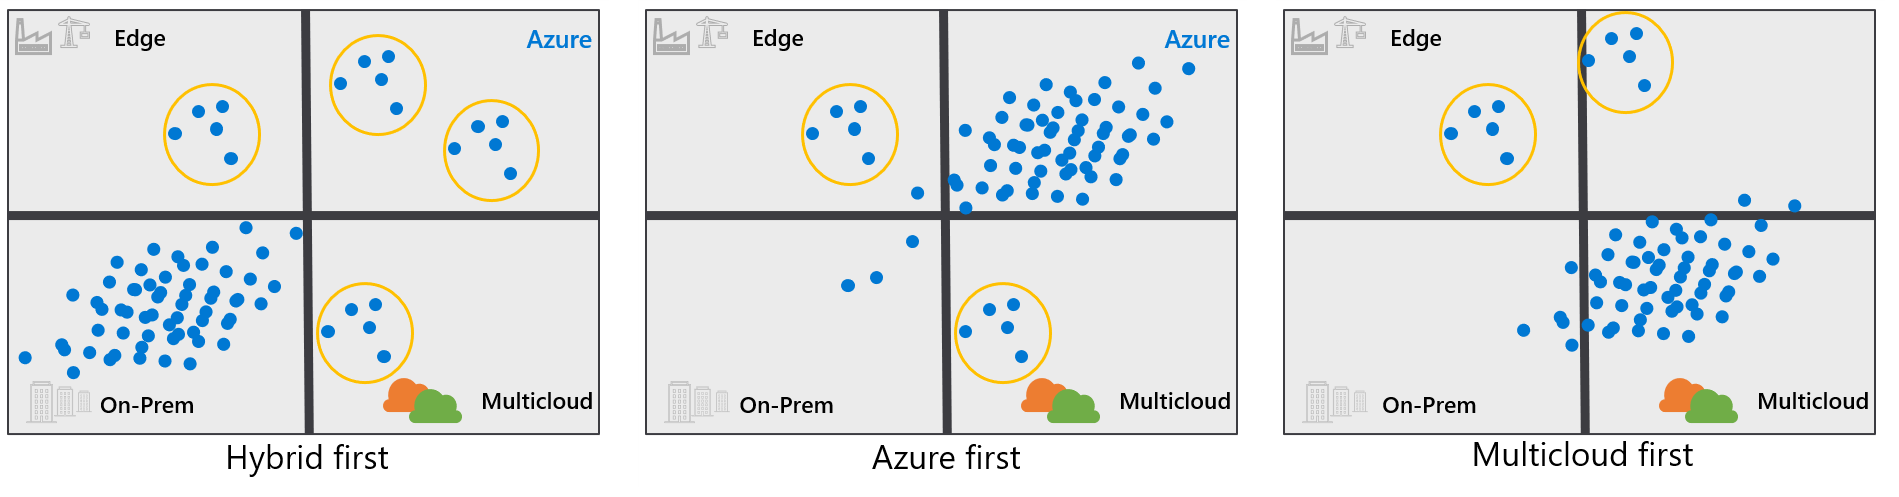
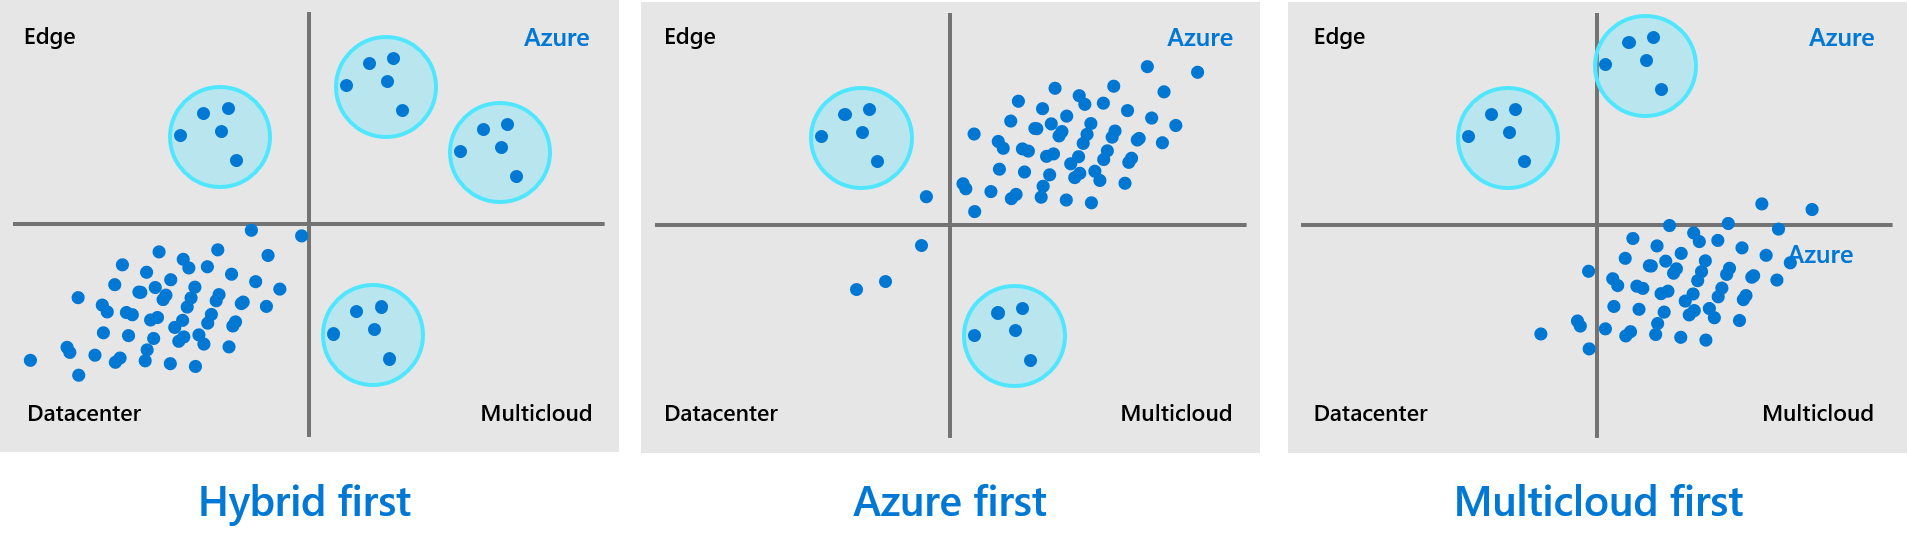
Update re: hybrid scenario bug fixes
Updated fresh cloud-mix.png; fixed 404 errors in arc-update-management.md; text updates to manage.md; added skills readiness path guidance to plan.md.

Changed region(s): [[0.0, 0.0, 1.0, 0.9658], [0.435, 0.5131, 0.466, 0.5734]]

diff --git a/docs/manage/hybrid/server/best-practices/arc-update-management.md b/docs/manage/hybrid/server/best-practices/arc-update-management.md
@@ -12,7 +12,7 @@ ms.custom: think-tank, e2e-hybrid
 
 # Use Update Management in Azure Automation to manage operating system updates for Azure Arc enabled servers
 
-This article provides guidance on how to onboard Azure Arc enabled servers to [Update Management in Azure Automation](/azure/automation/update-management/overview), so that you can manage operating system updates for your Azure Arc enabled servers running Windows or Linux.
+This article provides guidance on how to onboard Azure Arc enabled servers to [Update Management in Azure Automation](https://docs.microsoft.com/azure/automation/update-management/overview), so that you can manage operating system updates for your Azure Arc enabled servers running Windows or Linux.
 
 In the following procedures you create and configure an Azure Automation account and Log Analytics workspace to support Update Management for Azure Arc enabled servers by doing the following:
 
@@ -129,7 +129,7 @@ Now that we have configured the Update Management solution, you can deploy updat
 
     ![A screenshot of a scheduled update within Update management.](./media/arc-update-management/scheduled-update.png)
 
-This Update Management solution will update your Azure Arc enabled servers in the deployment window based on the schedule you defined. There's a lot more you can do with [Update Management](/azure/automation/update-management/overview) that is outside the scope of this scenario. Review the [documentation](/azure/automation/update-management/overview) for more information.
+This Update Management solution will update your Azure Arc enabled servers in the deployment window based on the schedule you defined. There's a lot more you can do with [Update Management](https://docs.microsoft.com/azure/automation/update-management/overview) that is outside the scope of this scenario. Review the [documentation](https://docs.microsoft.com/azure/automation/update-management/overview) for more information.
 
 ## Clean up your environment
 

diff --git a/docs/scenarios/hybrid/manage.md b/docs/scenarios/hybrid/manage.md
@@ -20,7 +20,7 @@ The following section outlines how you can apply the concept of unified operatio
 
 [Azure Arc](/azure/azure-arc/overview) reduces the complexity and cost of extending your operations baseline. Deploying Azure Arc across your datacenter, hybrid cloud, and multicloud environments will extend the native features of Azure that are included in Azure Resource Manager.
 
-To get started with an operations baseline that spans multiple cloud providers, complete a simple inventory and tagging exercise. This simple exercise will begin to extend your operations baselines in a few simple steps:
+To get started with an operations baseline that spans on-premises and multiple cloud providers, complete a simple inventory and tagging exercise. This simple exercise will begin to extend your operations baselines in a few simple steps:
 
 - Add a tag for `hosting platform` to all hybrid, multicloud, and edge assets.
 - Tag resources from AWS, GCP, and so on.

diff --git a/docs/scenarios/hybrid/plan.md b/docs/scenarios/hybrid/plan.md
@@ -153,7 +153,7 @@ Do you have a specific DevOps backlog the customer should use? Or is the standar
 
 ## Hybrid and multicloud readiness plan
 
-Are there specific skills or extra training this team should take before getting started?
+Are there specific skills or extra training this team should take before getting started? To prepare for the readiness phase of your hybrid and multicloud migration journey, consider a [skills readiness path](https://docs.microsoft.com/azure/cloud-adoption-framework/ready/suggested-skills) to add skills in organizational and technical readiness.
 
 ## Next step: Review your environment or Azure landing zone
 
